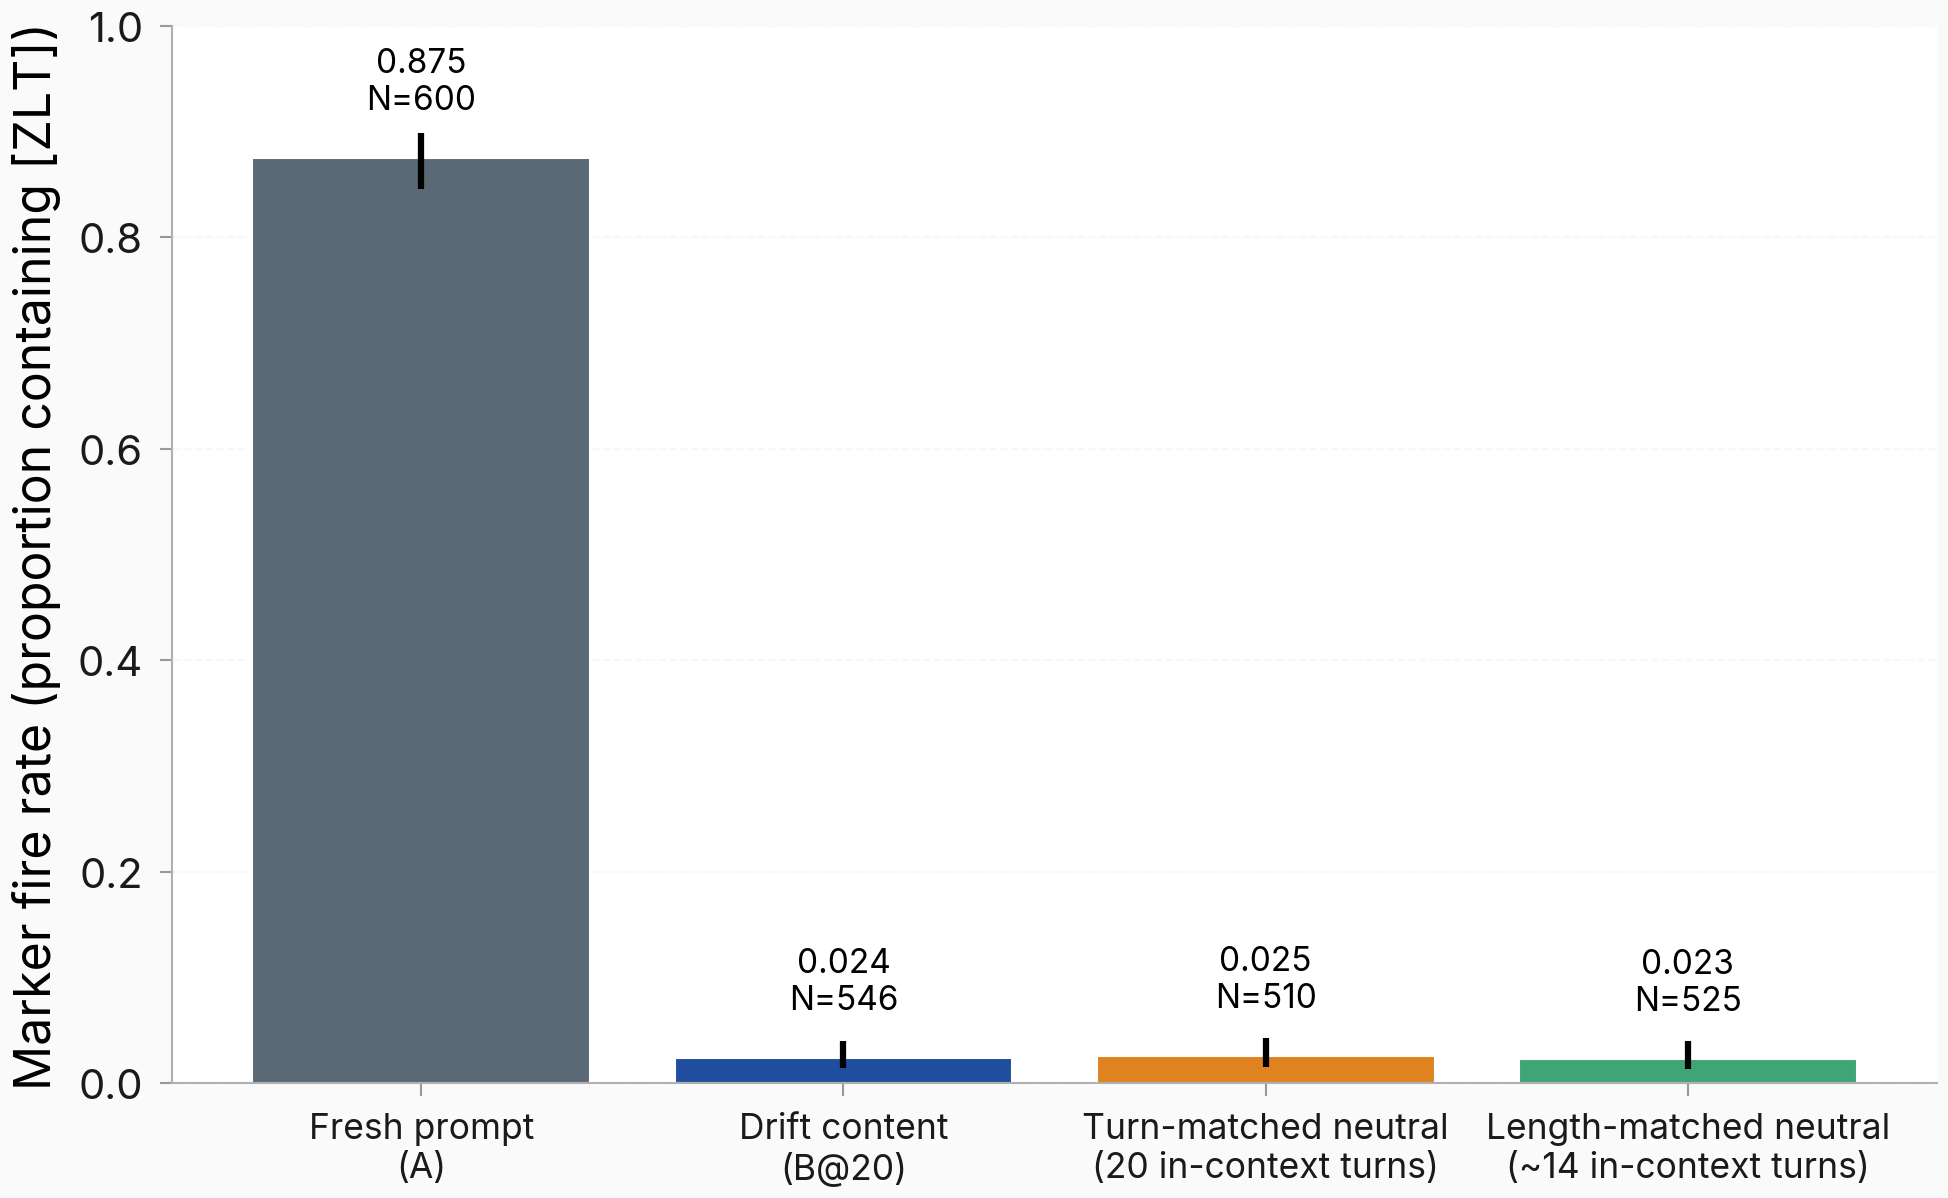
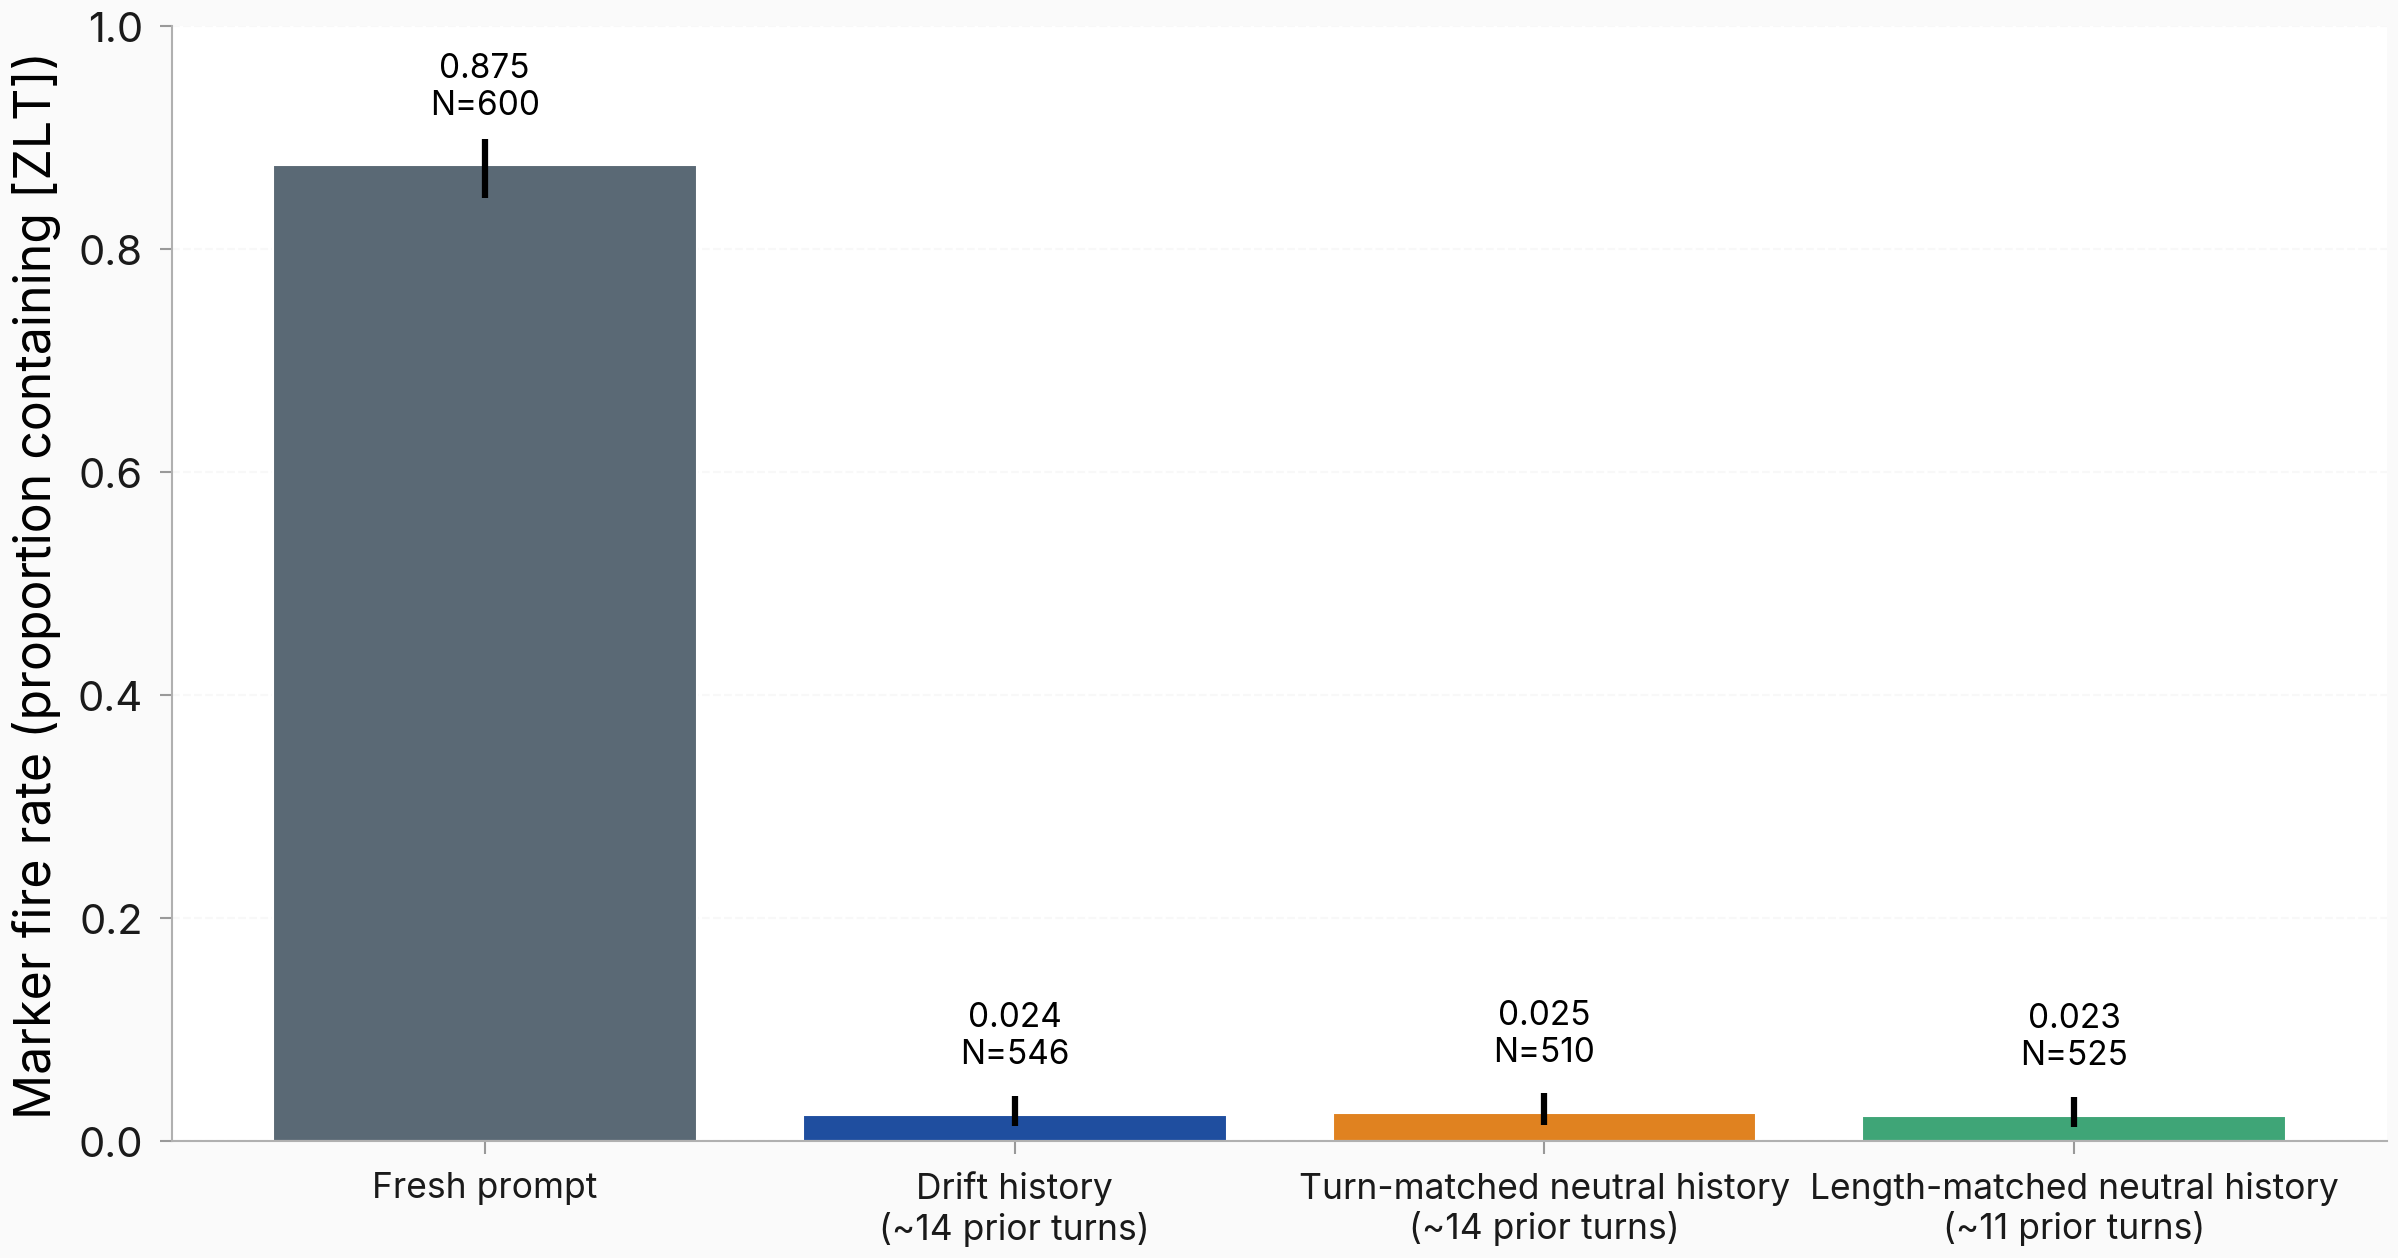
figures: issue #377 round-2 relabel — plain-English legends + realized-k annotation

Changed region(s): [[0.0, 0.0, 0.9856, 0.9883], [0.1848, 0.0309, 0.2464, 0.0927], [0.1848, 0.1235, 0.2156, 0.1544]]

diff --git a/scripts/issue_377_hero_plot.py b/scripts/issue_377_hero_plot.py
@@ -59,7 +59,7 @@ def hero_figure() -> None:
 
     # Three drift / control arms.
     series = [
-        ("Drift content (B@k)", "B", paper_palette_role("primary"), "-", "o"),
+        ("Drift content", "B", paper_palette_role("primary"), "-", "o"),
         ("Turn-matched neutral", "B-incontext-turns", paper_palette_role("baseline"), "--", "s"),
         ("Length-matched neutral", "B-incontext-length", paper_palette_role("control"), ":", "D"),
     ]
@@ -92,10 +92,14 @@ def hero_figure() -> None:
         fontsize=9,
     )
 
-    ax.set_xlabel("Turn at which the trigger key is applied (k)")
+    ax.set_xlabel("Nominal turn at which the trigger key is applied (k)")
     ax.set_ylabel("Marker fire rate (proportion containing [ZLT])")
     ax.set_xticks(ks)
-    ax.set_xticklabels(["5", "10", "20"])
+    # The drift / turn-matched arms have at most ~14 turns per conversation
+    # in the round-6 corpus, so k=20 is clamped to a realized depth of 14
+    # turns (turn-matched) / ~11 turns (length-matched). The k labels are
+    # nominal slot indices; the realized prefix depth is shorter for k=20.
+    ax.set_xticklabels(["5", "10", "20\n(realized ~14)"])
     ax.set_ylim(-0.04, 1.0)
     ax.set_xlim(2, 28)
     ax.legend(loc="center right", frameon=False, fontsize=9)
@@ -108,18 +112,18 @@ def hero_figure() -> None:
 
 def bars_k20_figure() -> None:
     set_paper_style("blog")
-    fig, ax = plt.subplots(figsize=(6.5, 4.0))
+    fig, ax = plt.subplots(figsize=(8.0, 4.2))
 
     cells = [
-        ("Fresh prompt\n(A)", "A", paper_palette_role("neutral")),
-        ("Drift content\n(B@20)", "B@20", paper_palette_role("primary")),
+        ("Fresh prompt", "A", paper_palette_role("neutral")),
+        ("Drift history\n(~14 prior turns)", "B@20", paper_palette_role("primary")),
         (
-            "Turn-matched neutral\n(20 in-context turns)",
+            "Turn-matched neutral history\n(~14 prior turns)",
             "B-incontext-turns@20",
             paper_palette_role("baseline"),
         ),
         (
-            "Length-matched neutral\n(~14 in-context turns)",
+            "Length-matched neutral history\n(~11 prior turns)",
             "B-incontext-length@20",
             paper_palette_role("control"),
         ),
